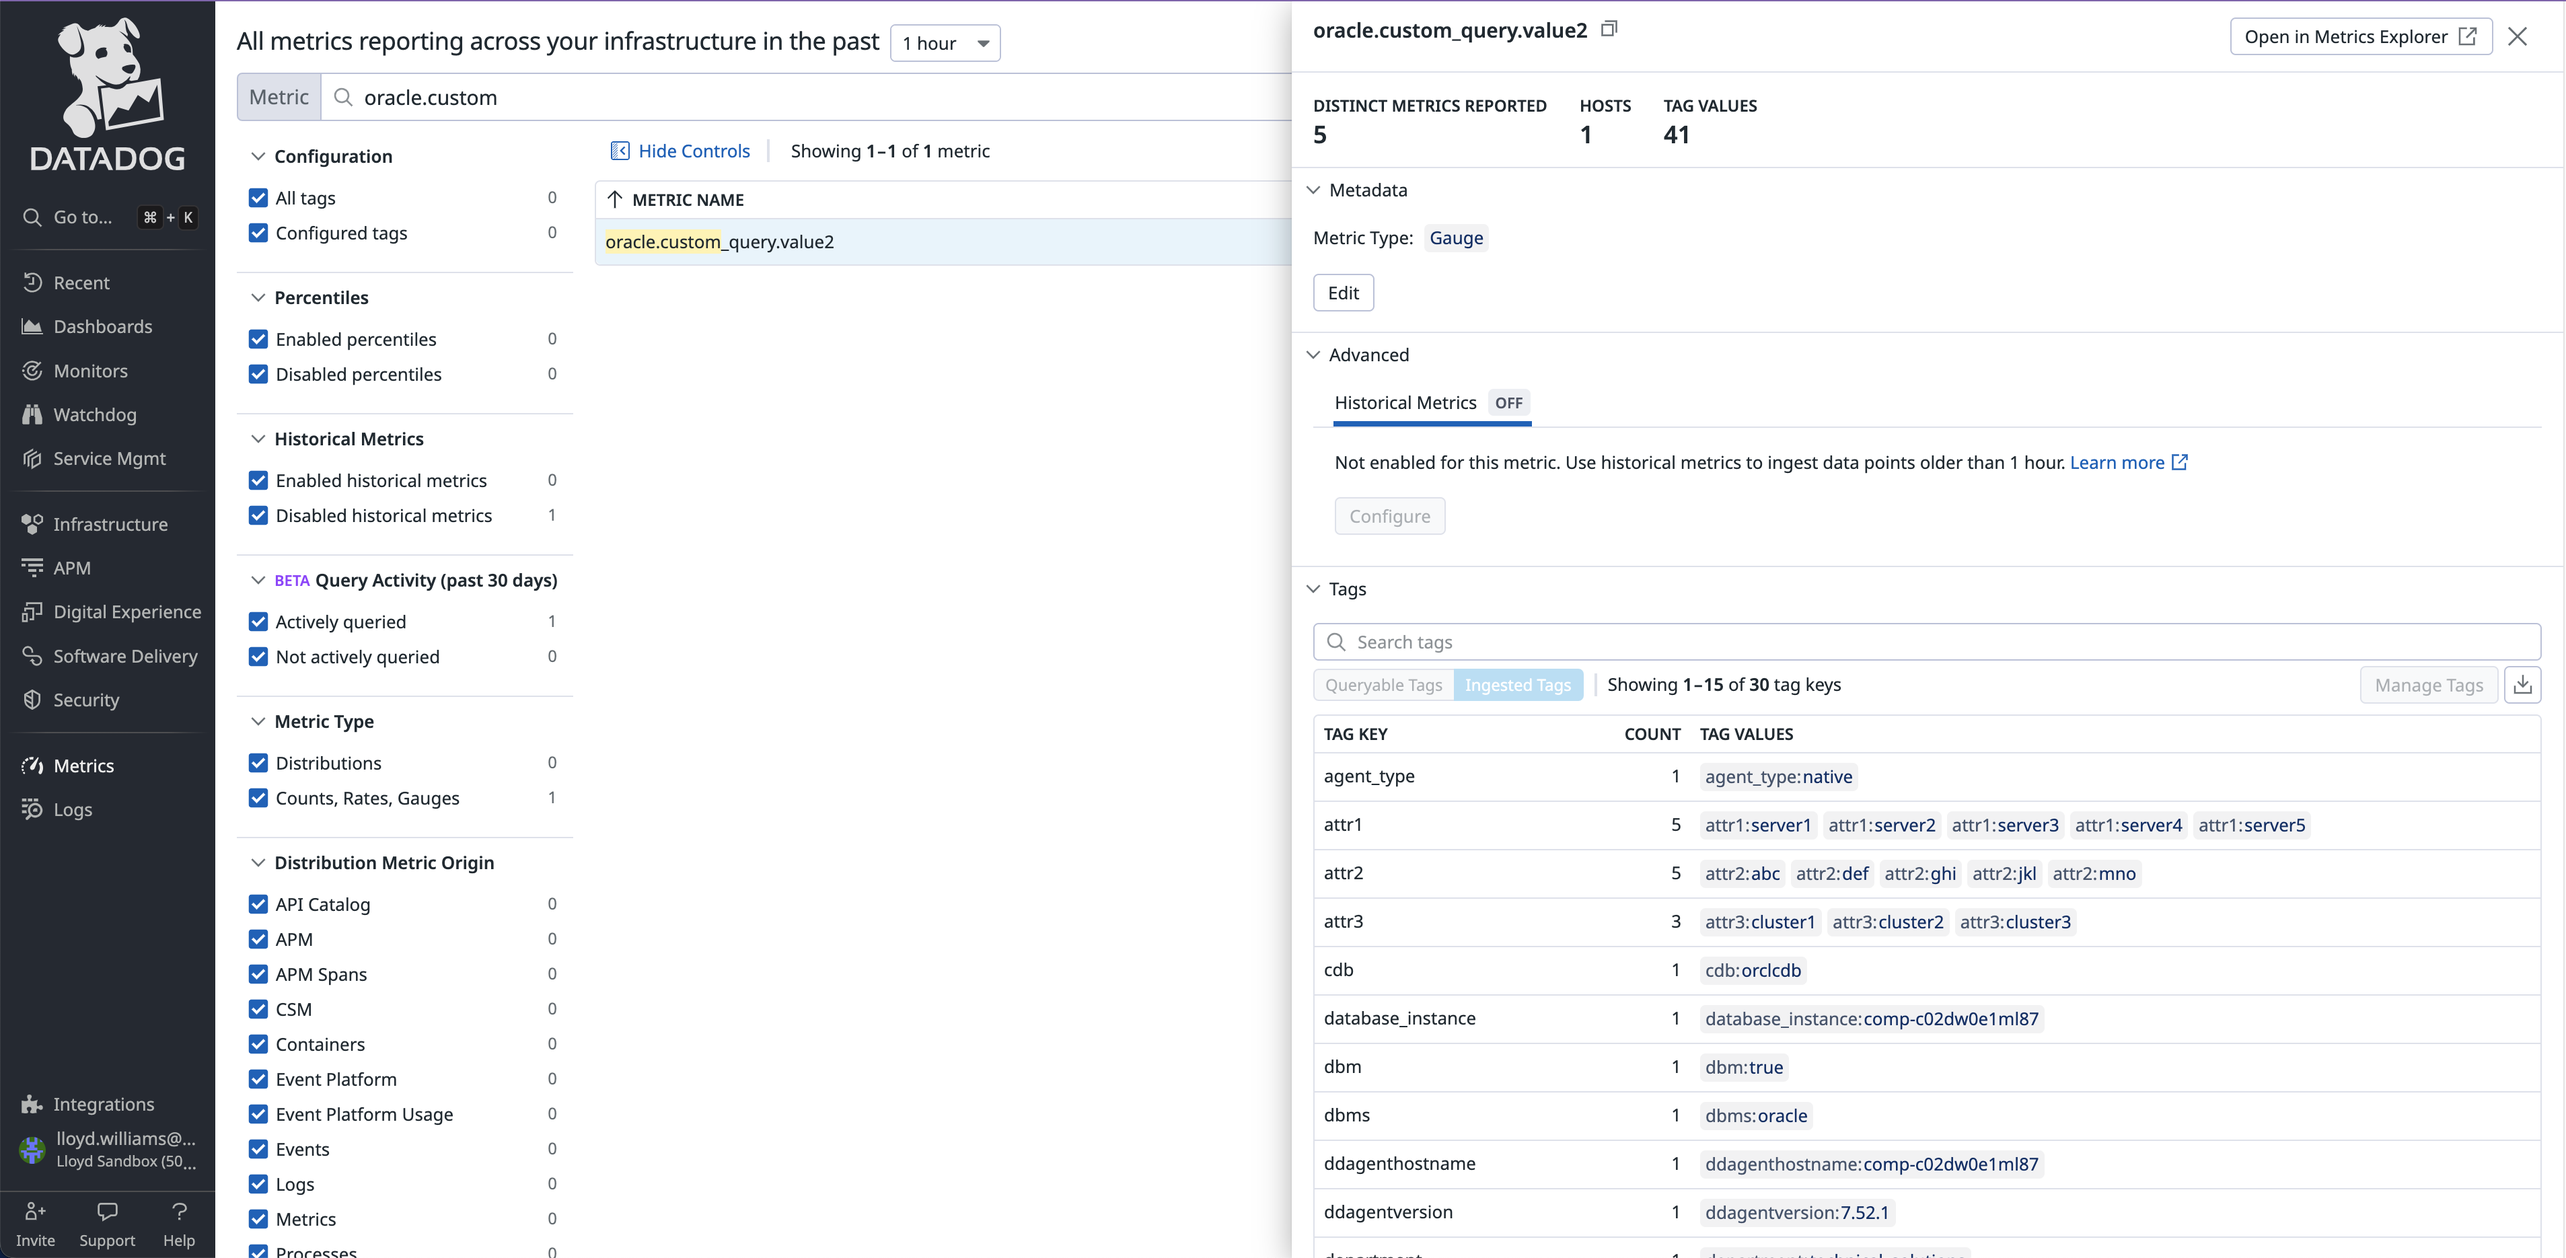
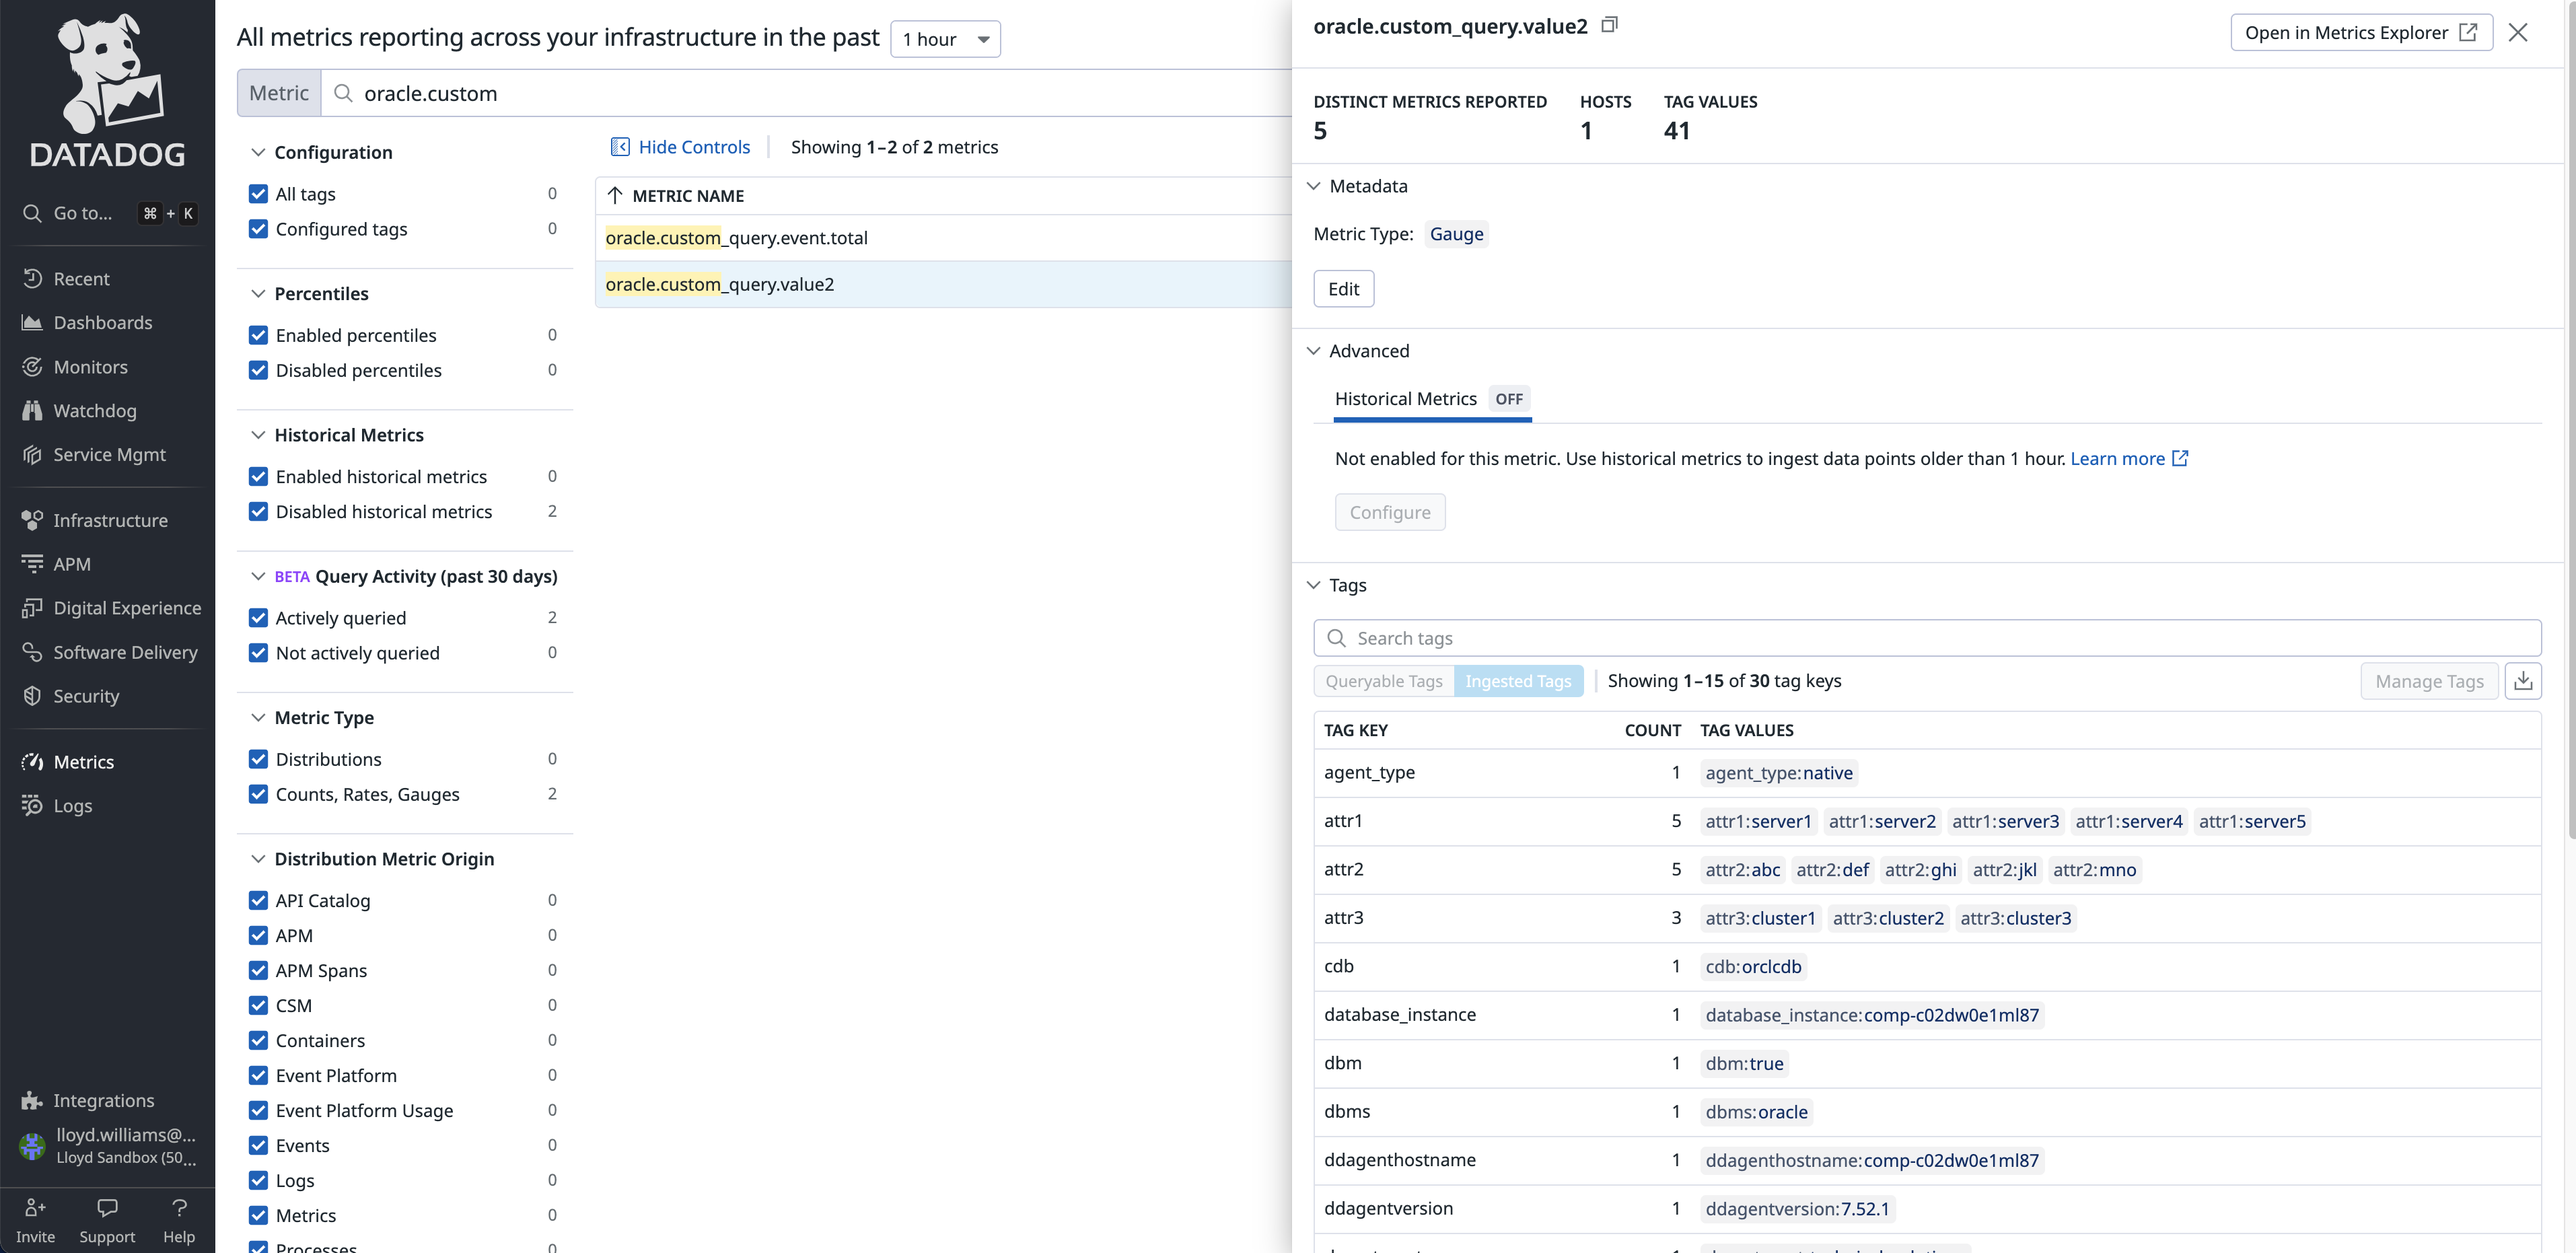
fixed conf.yaml
fixed conf.yaml

diff --git a/custom-metrics/datadog-agent-dbquery/README.md b/custom-metrics/datadog-agent-dbquery/README.md
@@ -38,6 +38,7 @@ instances:
        tags:
        - test:lloyd
        pdb: ORCLPDB1
+     - metric_prefix: oracle.custom_query
        query: SELECT attr1, attr2, attr3, value2 FROM LLOYD.METRICS
        columns:
        - name: attr1
